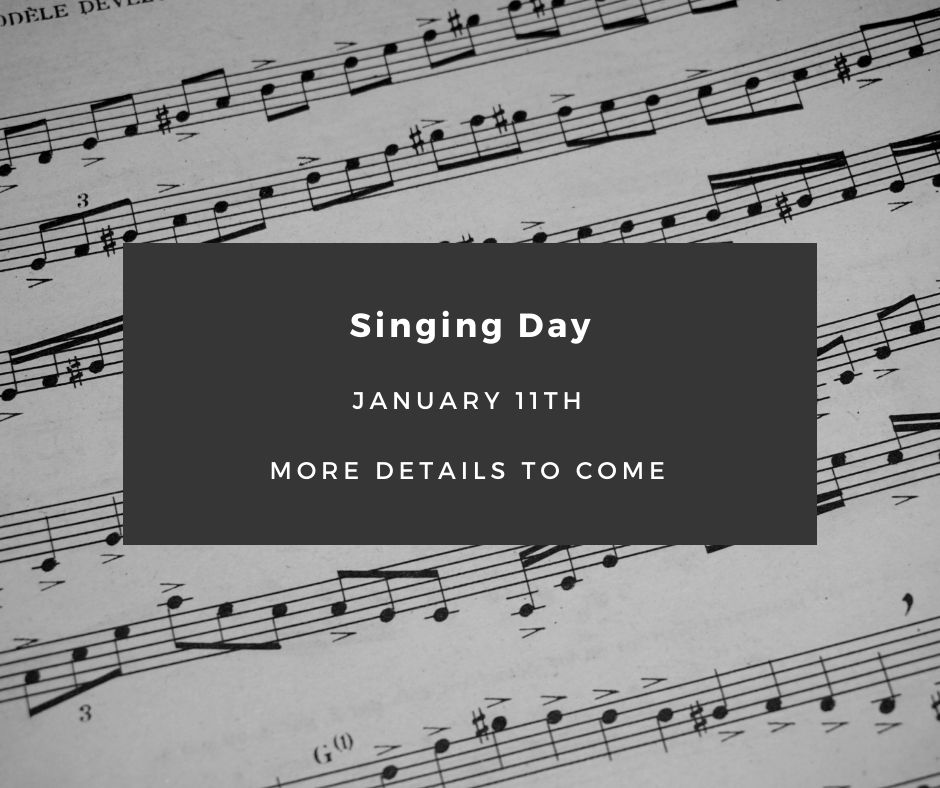
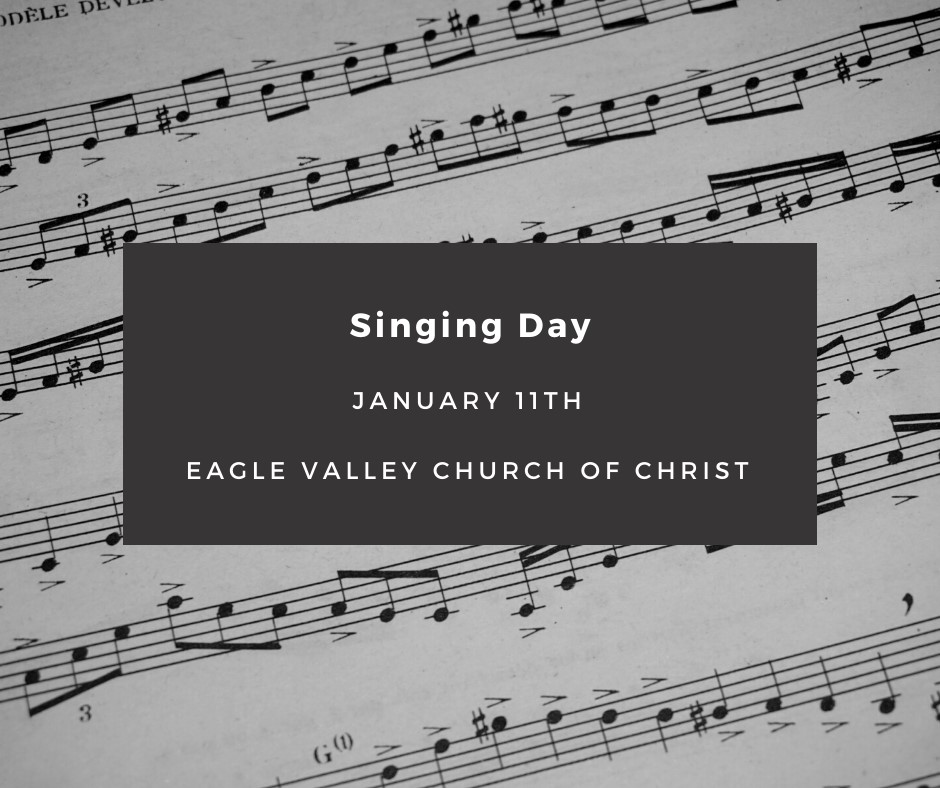
Update with Jan/Feb events and March Conference

Changed region(s): [[0.1851, 0.5787, 0.8021, 0.6091]]

diff --git a/static/focus-in/index.html b/static/focus-in/index.html
@@ -111,17 +111,48 @@
   </div>
 
   <!-- Conference/Speaker Container -->
-  <div class="w3-container w3-padding-64 w3-center" id="conference">
-    <!-- Conference Info -->
-    <h2 class="w3-left-align">
-      Focus (IN) March 2020 Conference
-    </h2>
-    <p class="w3-left-align">
-      We are currently planning for the March 2020 Conference on March 28,
-      2020. If you would like to stay up to date with this event or others we
-      are currently planning, then please join our
-      <a href="https://www.facebook.com/groups/1331931766943577">Facebook group</a>!
-    </p>
+  <!-- Banner Image -->
+  <img src="content/Event Image - March 2020.jpg" style="width: 100%; max-height: 400px" id="conference" />
+  <div class="w3-container w3-padding-64 w3-center w3-padding-top-none">
+    <div class="w3-container w3-padding-64 w3-center w3-padding-top-none w3-padding-bottom-none" id="conference">
+      <!-- Conference Info -->
+      <h2 class="w3-left-align">Focus (IN) March Conference</h2>
+      <p class="w3-left-align">
+        Our next Focus (IN) conference is currently being planned for March 28, 2020. It will be held at <a href="https://goo.gl/maps/GMiKP5X13hdX9RzFA" target="_blank">Greenfield Church of Christ</a>.
+      </p>
+      <p class="w3-left-align">
+        We’ll start the day with a Light Breakfast and Registration from 9-10 AM. Our worship and study will begin at 10
+        AM and end
+        around 3 PM, with a break for lunch around noon.
+      </p>
+      <!-- Lesson Topic Section -->
+      <div class="w3-padding-large w3-margin w3-container w3-card-dark w3-theme-l5">
+        <p class="w3-center-align w3-padding-16 w3-padding-bottom-none" style="margin: 0px">Lesson Topics:</p>
+        <div class="w3-cell-row w3-padding-16">
+          <p class="w3-cell w3-mobile w3-padding">
+            “Man After God’s Heart”
+            <br />(1 Samuel 16:6-13, 1 Samuel 13:13-14, 2 Samuel 6:6-23, 1 Samuel 24:6-15, 1 Samuel 26:8-24, Psalm
+            51:14-17)
+          </p>
+          <p class="w3-cell w3-mobile w3-padding">
+            “Serving With All Our Heart”
+            <br />(Exodus 21:1-6, Matthew 25:14-30, Luke 17:1-10, Joel 2:12-14, Colossians 3:22-25, Exodus 36:2-6,
+            Ezekiel 36:22-32)
+          </p>
+        </div>
+      </div>
+      <!-- Spacer -->
+      <p class="w3-padding"></p>
+      <p class="w3-left-align">
+        If you have any questions about the conference, please
+        <a href="#contact" style="color: blue">contact us</a> using the form below. We would appreciate an
+        <a href="#contact" style="color: blue">RSVP</a> so we can plan for plenty of food.
+      </p>
+      <p class="w3-left-align">If you would like to stay up to date with this event or others we are currently planning,
+        then please join our
+        <a href="https://www.facebook.com/groups/1331931766943577">Facebook group</a>!
+      </p>
+    </div>
   </div>
 
   <!-- Location/Contact Container -->
@@ -344,25 +375,17 @@
 
     //creating Events (imgSrc, Event Title, totalEvents, showEvent, Event Details (HTML))
     createEvent(
-      "content/Christmas Party.jpg",
-      "Christmas Party - Decemember 14",
-      3,
-      true,
-      `<p>Focus (IN) will be having a Christmas Party! Starting at 5 PM, there will be gingerbread decorations, a movie, dinner (AKA lots of snacks!), and more!</p>`
-    );
-
-    createEvent(
       "content/Singing Day.jpg",
       "Singing Day - January 11, 2020",
-      3,
+      2,
       true,
-      `<p>More details to come. RSVP to get notified as soon as they are available!</p>`
+      `<p>Come to Eagle Valley Church of Christ on January 11th at 5 pm to enjoy singing praises to God and some great fellowship! Food will also be provided.</p>`
     );
 
     createEvent(
-      "content/Updated-Coming-Soon.jpg",
-      "February Event - February 29, 2020",
-      3,
+      "content/Movie Night.jpg",
+      "Movie Night - February 29, 2020",
+      2,
       true,
       `<p>More details to come. RSVP to get notified as soon as they are available!</p>`
     );
